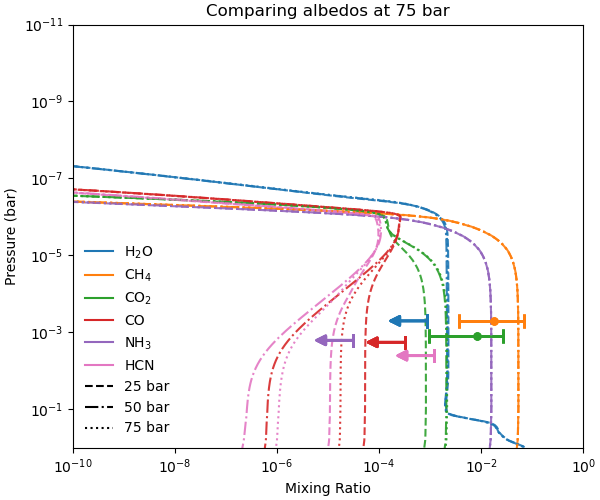
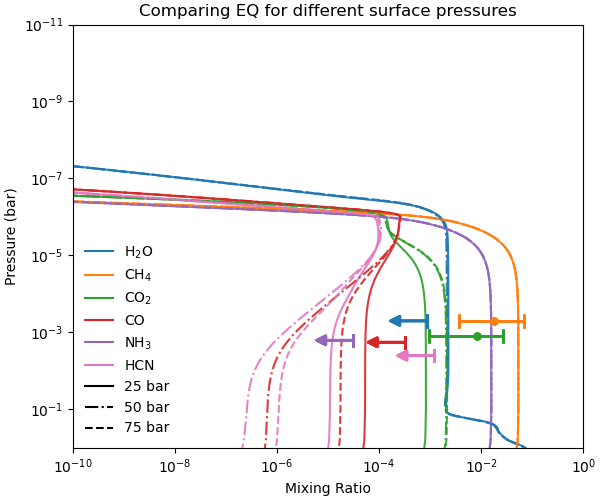
new EQ graph, next is full cond

diff --git a/aqif_super_plotter.py b/aqif_super_plotter.py
@@ -11,7 +11,7 @@ plot_spec = 'H2O,CH4,CO2,CO,NH3,CH3CL,HCN'  # Species to plot, separated by comm
 plot_name = 'AS_new_EQ_1e13' # Output plot name
 plot_dir = vulcan_cfg.plot_dir if hasattr(vulcan_cfg, 'plot_dir') else 'path/to/your/plot/directory'  # Ensure plot_dir is set
 error_bar_set = 'cb_1'
-vul_files = ['output/Albedo_Surface/1e13/UH_K2-18b_GJ176_1bar_1e13s_100metal_PT3.vul',
+vul_files = [
              'output/Albedo_Surface/1e13/UH_K2-18b_GJ176_25bar_1e13s_100metal_PT3.vul',
              'output/Albedo_Surface/1e13/UH_K2-18b_GJ176_50bar_1e13s_100metal_PT3.vul',
              'output/Albedo_Surface/1e13/UH_K2-18b_GJ176_75bar_1e13s_100metal_PT3.vul',
@@ -19,11 +19,11 @@ vul_files = ['output/Albedo_Surface/1e13/UH_K2-18b_GJ176_1bar_1e13s_100metal_PT3
              
            
              ]
-titles = ['1 bar', '25 bar', '50 bar', '75 bar']
-plot_title = 'Comparing albedos at 75 bar'
+titles = [ '25 bar', '50 bar', '75 bar']
+plot_title = 'Comparing EQ for different surface pressures'
 
 # Line styles for each dataset (extend as needed)
-line_styles = ['-', '--', '-.', ':']  # Solid, dashed, dash-dot, dot
+line_styles = ['-', '-.', '--', ':']  # Solid, dashed, dash-dot, dot
 
 # Color setup (Tableau 20 colors)
 tableau20 = [(31, 119, 180), (255, 127, 14), (44, 160, 44), (214, 39, 40), (148, 103, 189),
